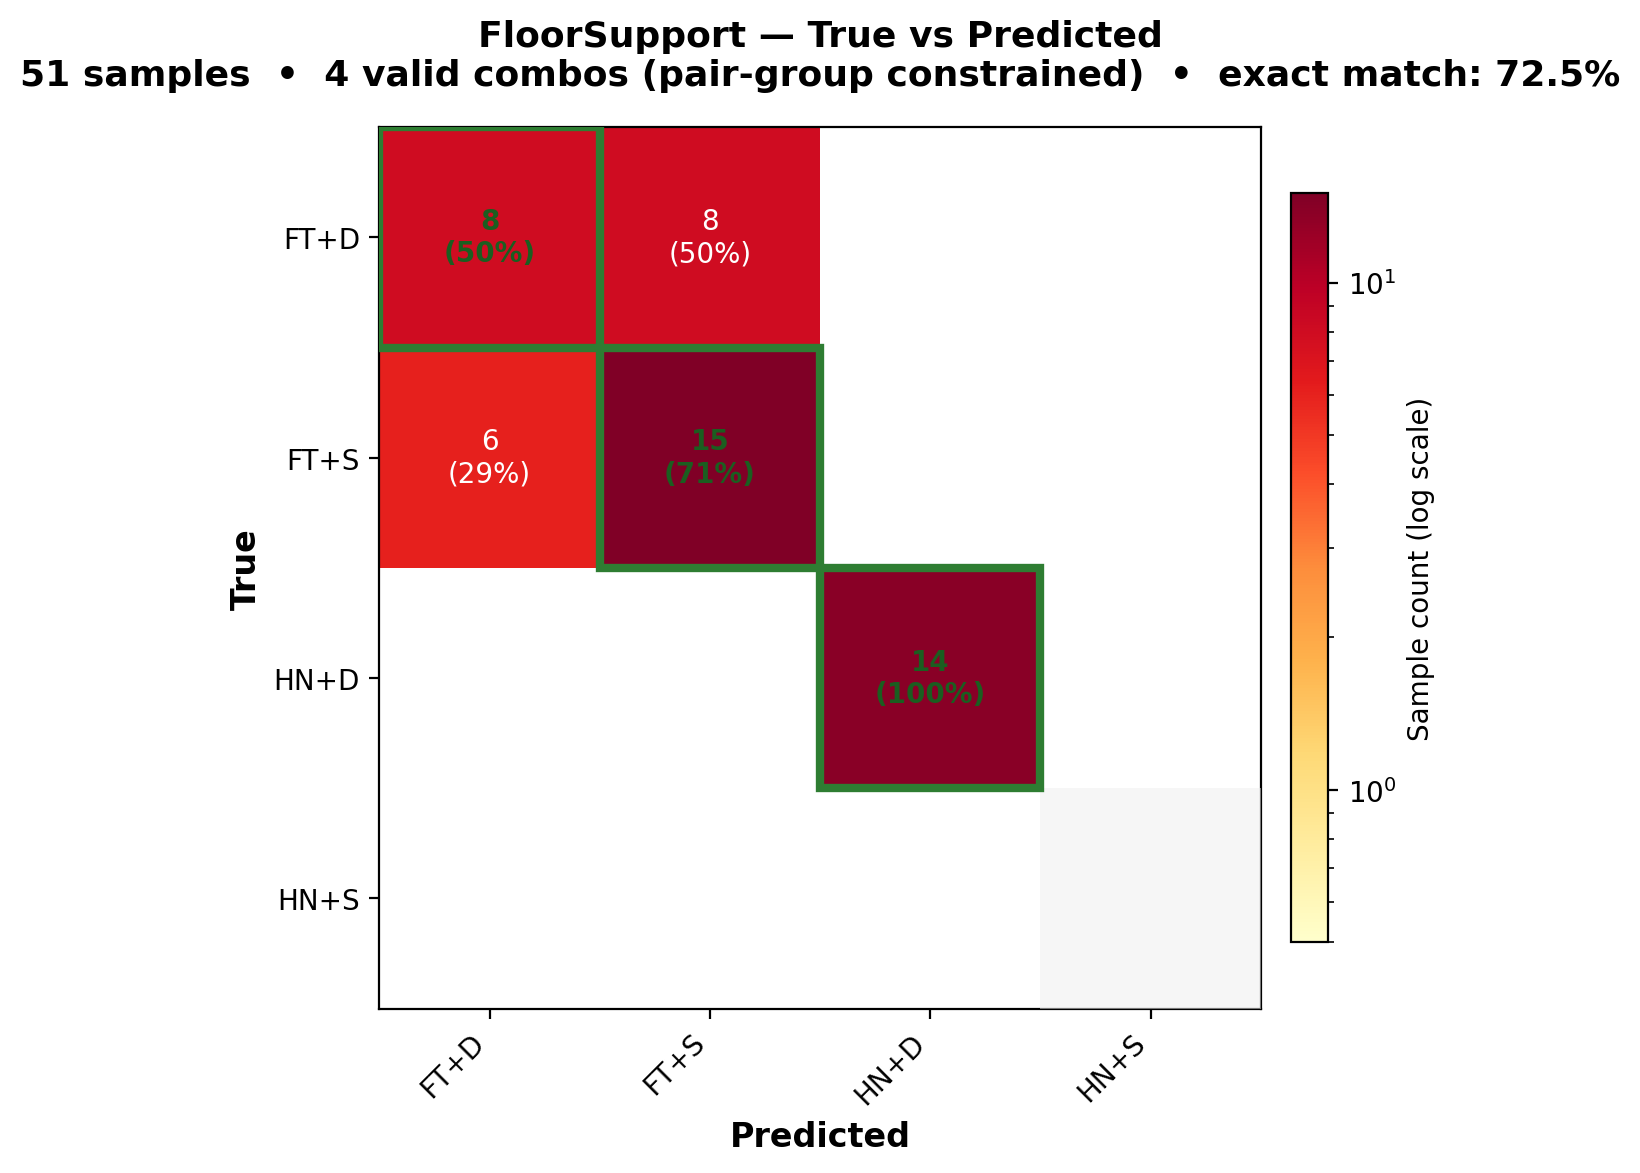
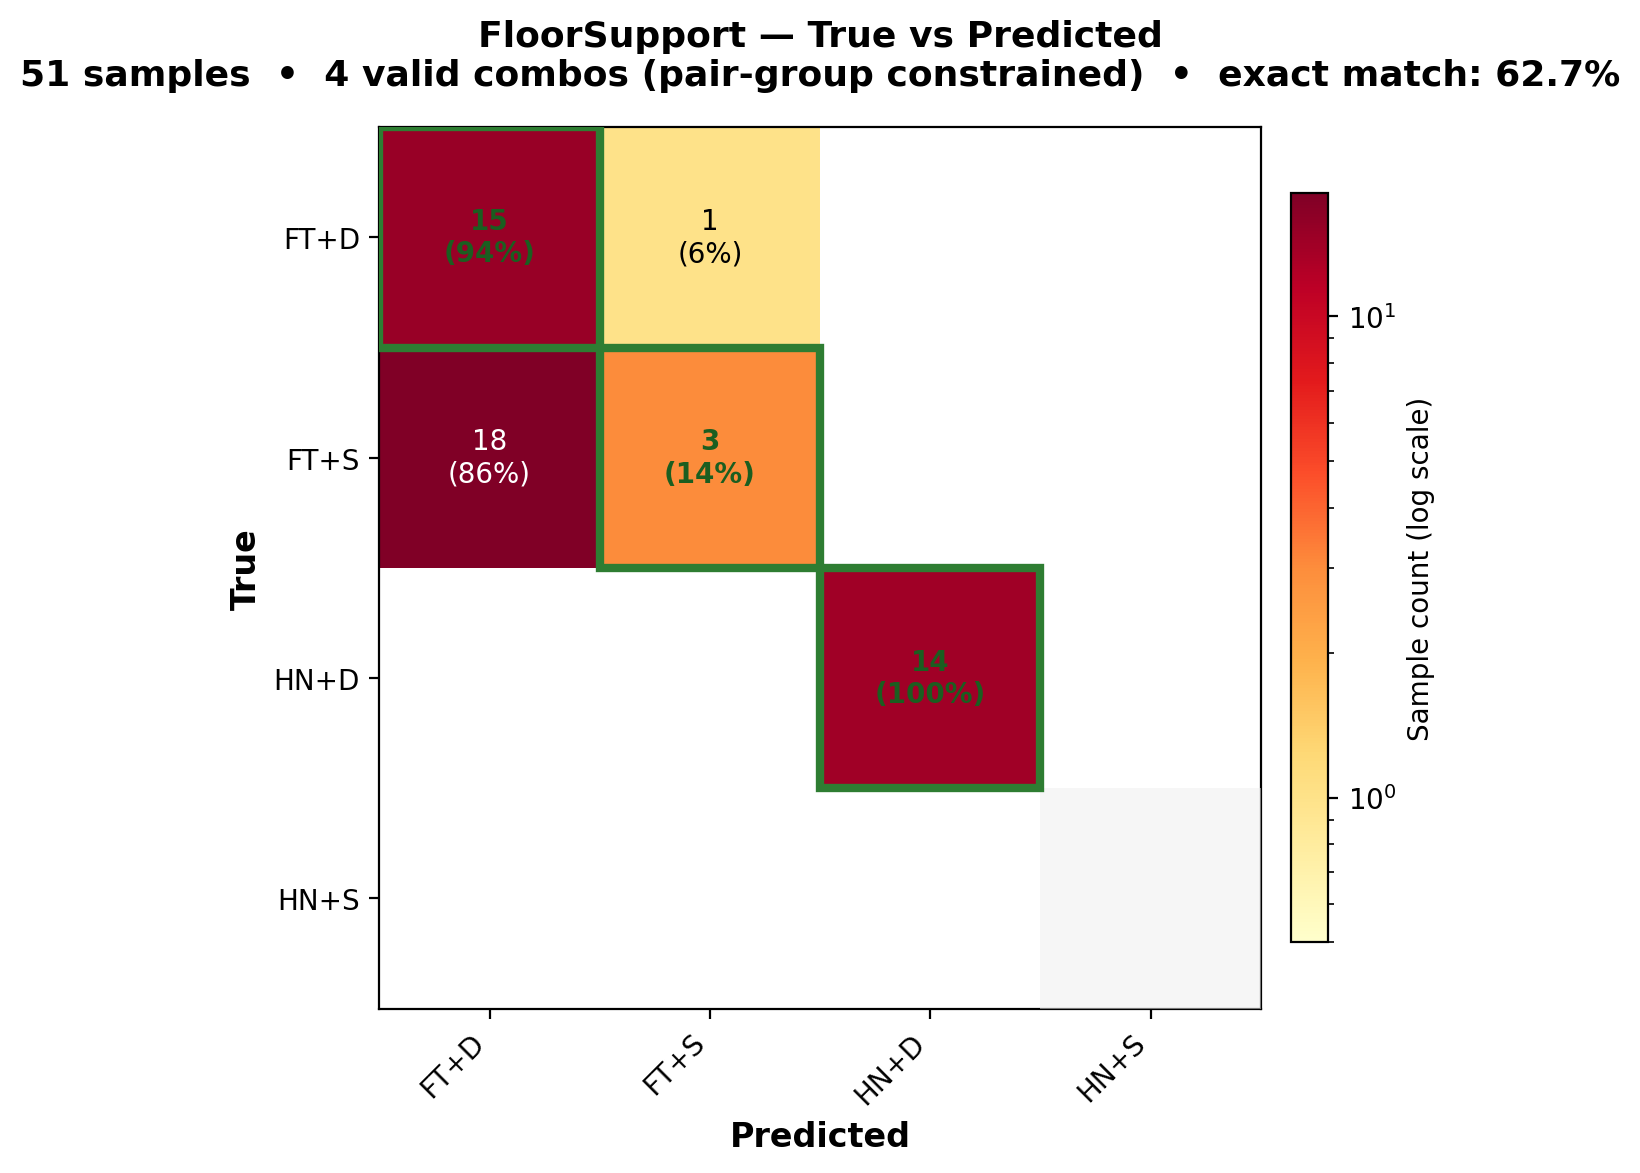
added what has been done and the todos

diff --git a/LimbExpression/main.py b/LimbExpression/main.py
@@ -1,7 +1,11 @@
 """Training entry point for LimbExpression — 8-code multi-label classification."""
 import argparse
+import random
 import sys
 from pathlib import Path
+
+import numpy as np
+import torch
 
 # Ensure this package is importable
 _here = Path(__file__).resolve().parent
@@ -13,6 +17,14 @@ from models.multilabel_cnn import MultiLabelCNN
 from trainers import LimbExpressionMultiLabelTrainer
 
 
+def set_seed(seed):
+    random.seed(seed)
+    np.random.seed(seed)
+    torch.manual_seed(seed)
+    if torch.cuda.is_available():
+        torch.cuda.manual_seed_all(seed)
+
+
 def parse_args():
     parser = argparse.ArgumentParser(description="Train multi-label model for LimbExpression")
     parser.add_argument("--data-dir", type=str, default="dataset/limb_expression_raw")
@@ -20,11 +32,14 @@ def parse_args():
     parser.add_argument("--lr", type=float, default=1e-3)
     parser.add_argument("--device", type=str, default="cpu",
                         choices=["cpu", "mps", "cuda"])
+    parser.add_argument("--seed", type=int, default=42,
+                        help="Random seed for reproducibility")
     return parser.parse_args()
 
 
 def main():
     args = parse_args()
+    set_seed(args.seed)
     data_dir = Path(args.data_dir)
     if not data_dir.is_absolute():
         data_dir = (Path(__file__).resolve().parent / data_dir).resolve()

diff --git a/Space/main.py b/Space/main.py
@@ -1,7 +1,11 @@
 """Training entry point for Space — multi-label (7-code) classification."""
 import argparse
+import random
 import sys
 from pathlib import Path
+
+import numpy as np
+import torch
 
 # Ensure this package is importable
 _here = Path(__file__).resolve().parent
@@ -13,6 +17,14 @@ from models.multilabel_space import MultiLabelSpaceModel
 from trainers import SpaceMultiLabelTrainer
 
 
+def set_seed(seed):
+    random.seed(seed)
+    np.random.seed(seed)
+    torch.manual_seed(seed)
+    if torch.cuda.is_available():
+        torch.cuda.manual_seed_all(seed)
+
+
 def parse_args():
     parser = argparse.ArgumentParser(description="Train multi-label model for Space data")
     parser.add_argument("--data-dir", type=str, default="dataset/space_raw")
@@ -20,11 +32,14 @@ def parse_args():
     parser.add_argument("--lr", type=float, default=1e-3)
     parser.add_argument("--device", type=str, default="cpu",
                         choices=["cpu", "mps", "cuda"])
+    parser.add_argument("--seed", type=int, default=42,
+                        help="Random seed for reproducibility")
     return parser.parse_args()
 
 
 def main():
     args = parse_args()
+    set_seed(args.seed)
     data_dir = Path(args.data_dir)
     if not data_dir.is_absolute():
         data_dir = (Path(__file__).resolve().parent / data_dir).resolve()

diff --git a/Spine/main.py b/Spine/main.py
@@ -1,7 +1,11 @@
 """Training entry point for Spine movement classification."""
 import argparse
+import random
 import sys
 from pathlib import Path
+
+import numpy as np
+import torch
 
 # Ensure this package is importable
 _here = Path(__file__).resolve().parent
@@ -12,6 +16,14 @@ sys.path.append(str(_floor))
 # Import Spine's own modules
 from models.multilabel_spine import MultiLabelSpineModel
 from trainers import SpineTrainer
+
+
+def set_seed(seed):
+    random.seed(seed)
+    np.random.seed(seed)
+    torch.manual_seed(seed)
+    if torch.cuda.is_available():
+        torch.cuda.manual_seed_all(seed)
 
 
 def parse_args():
@@ -29,11 +41,14 @@ def parse_args():
     parser.add_argument("--device", type=str, default="cpu",
                         choices=["cpu", "mps", "cuda"],
                         help="Device to train on")
+    parser.add_argument("--seed", type=int, default=42,
+                        help="Random seed for reproducibility")
     return parser.parse_args()
 
 
 def main():
     args = parse_args()
+    set_seed(args.seed)
     data_dir = Path(args.data_dir)
     if not data_dir.is_absolute():
         data_dir = (Path(__file__).resolve().parent / data_dir).resolve()

diff --git a/FloorSupport/main.py b/FloorSupport/main.py
@@ -1,8 +1,20 @@
 import argparse
+import random
 from pathlib import Path
+
+import numpy as np
+import torch
 
 from trainers import Trainer, GestureTrainer, FloorSupportMultiLabelTrainer
 from models import get_model
+
+
+def set_seed(seed):
+    random.seed(seed)
+    np.random.seed(seed)
+    torch.manual_seed(seed)
+    if torch.cuda.is_available():
+        torch.cuda.manual_seed_all(seed)
 
 
 def parse_args():
@@ -25,11 +37,14 @@ def parse_args():
                         help="Device to train on")
     parser.add_argument("--target-frames", type=int, default=128,
                         help="Target frames for gesture sampling (gesture_cnn only)")
+    parser.add_argument("--seed", type=int, default=42,
+                        help="Random seed for reproducibility")
     return parser.parse_args()
 
 
 def main():
     args = parse_args()
+    set_seed(args.seed)
     data_dir = Path(args.data_dir)
     if not data_dir.is_absolute():
         data_dir = (Path(__file__).resolve().parent / data_dir).resolve()

diff --git a/FloorSupport/models/multilabel_floor.py b/FloorSupport/models/multilabel_floor.py
@@ -79,11 +79,10 @@ class MultiLabelFloorModel(MultiLabelGestureModelBase):
         #   Group 0: FT vs HN  (body part)
         #   Group 1: S  vs D   (single/dual count)
         pair_groups = [(0, 1), (2, 3)]
-        # Weight D 2× in the S/D group to penalise false negatives.
-        # D (dual-foot) is harder to detect than S (single-foot), so
-        # we up-weight it to push the model to learn the distinction.
+        # Weight D 4× — aggressively penalise false negatives.
+        # It's better to falsely say "dual feet" than to miss it.
         # Group positions: S=0, D=1 within logits[:, [2,3]]
-        pair_weights = [None, torch.tensor([1.0, 2.0])]
+        pair_weights = [None, torch.tensor([1.0, 4.0])]
         super().__init__(model, num_codes, target_frames, lr, weight_decay,
                         device, name, pair_groups=pair_groups,
                         pair_weights=pair_weights)

diff --git a/README.md b/README.md
@@ -2,6 +2,51 @@
 
 <img src="assets/BAT.png" width="600" alt="BAT codes">
 
+## Design Decisions
+
+1. **COG-relative plumbline features.** All four models use 73-dimensional plumb-line features (21 distances + 52 angles between body keypoints) instead of raw 732-dim joint positions. These features are computed relative to the center of gravity, making them translation-invariant. The plumbline distances are ratios between body segments, so a tall adult and a short child produce the same feature values for the same pose.
+
+2. **Height-invariant normalization.** For raw-feature models (gesture CNN variants), `HeightNormalize` divides all position channels by the per-sample skeleton height (max Y − min Y). For plumbline models, this is unnecessary — the distances are already scale-invariant since they measure proportions between keypoints, not absolute coordinates. Both approaches ensure the model generalizes across different body heights.
+
+3. **D-weight penalty for FloorSupport false negatives.** The FloorSupport model has a built-in class weight: D (dual-foot) is weighted **4×** in the S↔D CrossEntropyLoss pair. This aggressively penalizes missing a dual-foot ("flamingo") prediction — it's better to falsely say "dual feet" for a single-foot gesture than to miss a genuine dual-foot. The weight is applied via `pair_weights = [None, tensor([1.0, 4.0])]` on the S/D group.
+
+4. **Model architecture experiments per region.** Different architectures were tested for each body region before settling on the current ones:
+   - **FloorSupport:** BiLSTM + attention pooling + pair-group CrossEntropyLoss (replaced BCE + soft mutex penalty which allowed invalid combos like "FT alone")
+   - **Spine:** BiLSTM + mean pooling + class-weighted CrossEntropyLoss (attention pooling and deeper classifiers overfit on the small 283-sample dataset)
+   - **LimbExpression:** 1D CNN trunk + 4 independent sigmoid heads with per-pair normalization (contrastive-pair architecture was the original design and works best)
+   - **Space:** BiLSTM + mean pooling + pair-group CrossEntropyLoss (expanded from 5 to 7 codes to cover all 12 valid movement×energy combos)
+
+5. **Random seeds for reproducibility.** All training scripts accept `--seed` (default 42) and set `random`, `numpy`, and `torch` seeds before training. Identical data shuffling, weight initialization, and dropout patterns across runs — critical for publishing and peer review.
+
+## BAT Origins
+
+BAT (Body Articulation Type) codes were developed at the **Georgia Tech Expressive Machinery Lab** as part of the **LuminAI** project — an interactive AI dance partner that improvises movement with a human participant. The taxonomy is grounded in **Laban Movement Analysis (LMA)**, specifically its **Body** component, which categorizes how body parts are coordinated during movement.
+
+**Key contributors:** Milka Trajkova (research scientist, former professional ballet dancer), Brian Magerko (PI), Duri Long, Manoj Deshpande, and Andrea Knowlton (Kennesaw State University dance professor).
+
+**Reference paper:** Trajkova, Long, Deshpande, Knowlton, & Magerko (2024). *"Exploring Collaborative Movement Improvisation Towards the Design of LuminAI — a Co-Creative AI Dance Partner."* CHI '24, ACM Conference on Human Factors in Computing Systems.
+
+The four BAT regions map to LMA: floor contact patterns (FloorSupport), spine articulation (Spine), limb expression (LimbExpression), and spatial/energy levels (Space). Viewpoints movement theory (Overlie, Bogart & Landau) also influenced the taxonomy.
+
+## Future Work
+
+### Data Augmentation
+
+Several augmentation strategies could expand the limited training set:
+
+- **Time warping:** Stretch or compress gesture timelines (±20%) to simulate faster/slower execution.
+- **Left-right mirroring:** Flip the skeleton's X-axis to double the dataset (especially helpful for LimbExpression SL↔DL and LB↔UB).
+- **Gaussian noise injection:** Jitter (σ=0.02) on plumbline features to simulate Kinect sensor noise.
+- **Frame dropout:** Randomly drop 10–20% of frames to simulate occluded keypoints.
+
+### AI-Generated Moves for Missing Categories
+
+Many valid BAT combinations have zero training data (Space: 9 of 12 combos, LimbExpression: 13 of 16, FloorSupport: HN+S, Spine: SR/U). A potential workflow:
+
+1. **Motion generation:** Use a pretrained dance generation model (MDM, EDGE, or Motion Diffusion Model) conditioned on the missing BAT label combo.
+2. **Human-in-the-loop labeling:** A dance expert reviews generated motions, keeping only those that correctly embody the target codes.
+3. **Augment training:** Accepted motions join the training set; low-confidence ones could use soft labels during training.
+
 This repository trains and deploys small neural networks that classify body movement into BAT (Body Articulation Type) codes across four body regions. All models use 73-dimensional plumb-line features per bodyframe and output per-pair normalised probabilities where a **0.5 threshold** selects the active label in each binary pair. For groups with >2 codes (Spine, Space), use **argmax**.
 
 ---
@@ -120,3 +165,54 @@ This repository trains and deploys small neural networks that classify body move
 
 ### Space
 <img src="assets/heatmap_space.png" width="700" alt="Space confusion matrix">
+
+---
+
+## BAT Code Slogans
+
+Each active code triggers a natural-language slogan displayed in the LuminAI UI. Codes marked `—` have no `batdesc_` GameObject in the current Unity scene and need one added.
+
+### FloorSupport
+
+| Code | Slogan |
+|:---|:---|
+| D-FT | I think you're balancing on two feet. |
+| S-FT | I think you're balancing on one foot, like a flamingo. |
+| D-HN | I think you're balancing on two hands, like an acrobat. |
+| S-HN | — |
+
+### Spine
+
+| Code | Slogan |
+|:---|:---|
+| E | I think your spine is stretching back, like you're letting out a big... |
+| F | I think your spine is bending forward, almost like you're bowing. |
+| HG | I think you're moving your spine like an inflatable tube man. |
+| LF | I think your spine is bending side to side like a fitness instructor. |
+| SR | I think your spine is twisting at your waist like you're looking... |
+| U | — |
+
+### LimbExpression
+
+| Code | Slogan |
+|:---|:---|
+| LB | — |
+| SL | I believe you're using one limb. |
+| AS | I think one or both limbs are moving differently from the other. |
+| A | From what I can see, one or more limbs are moving in the air. |
+| G | I think one or more limbs are moving, while still touching the ground. |
+| UB | — |
+| DL | I think you're using, let me think, two limbs. |
+| SY | I think both limbs are mirroring each other. |
+
+### Space
+
+| Code | Slogan |
+|:---|:---|
+| ST | I think you're stationary or moving in place! |
+| T | — |
+| RV | I think you're turning or spinning like a top! |
+| SP | I think you're jumping in the air! |
+| H | I think you're in high space, meaning your feet—heels and toes—are... |
+| M | I think you're in medium space, meaning your joints are vertically... |
+| L | — |
